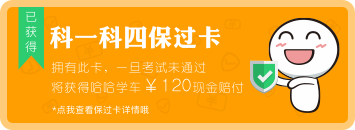
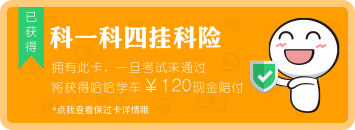
update UI

Changed region(s): [[0.4028, 0.1846, 0.6197, 0.4]]

diff --git a/hahaxueche/Utilities/HHSocialMediaShareUtility.m b/hahaxueche/Utilities/HHSocialMediaShareUtility.m
@@ -348,7 +348,7 @@ static NSString *const kSupportQQ = @"3319762526";
                         return;
                     }
                     msg = [[OSMessage alloc] init];
-                    msg.title = [NSString stringWithFormat:@"Hi, 知道你想学车, 送你200元代金券, 怕你考不过, 再送你一张保过卡. 比心❤ %@", shortURL];
+                    msg.title = [NSString stringWithFormat:@"Hi, 知道你想学车, 送你200元代金券, 怕你考不过, 再送你科一挂科险. 比心❤ %@", shortURL];
                     [OpenShare shareToWeibo:msg Success:^(OSMessage *message) {
                         if (resultCompletion) {
                             resultCompletion(YES);
@@ -418,7 +418,7 @@ static NSString *const kSupportQQ = @"3319762526";
                 } break;
                     
                 case SocialMediaMessage: {
-                    [self showSMS:[NSString stringWithFormat:@"Hi, 知道你想学车, 送你200元代金券, 怕你考不过, 再送你一张保过卡. 比心❤ %@", shortURL] attachment:nil];
+                    [self showSMS:[NSString stringWithFormat:@"Hi, 知道你想学车, 送你200元代金券, 怕你考不过, 再送你科一挂科险. 比心❤ %@", shortURL] attachment:nil];
                 }
                 default:
                     break;

diff --git a/hahaxueche/View Controllers/Others/HHSignContractViewController.m b/hahaxueche/View Controllers/Others/HHSignContractViewController.m
@@ -145,7 +145,7 @@
 
 - (void)showSharePopup {
     __weak HHSignContractViewController *weakSelf = self;
-    HHGenericOneButtonPopupView *view = [[HHGenericOneButtonPopupView alloc] initWithTitle:@"推荐好友" info:[self buildPopupInfoTextWithString:[NSString stringWithFormat:@"恭喜您！协议签署成功! 可在\"我的页面\"-\"我的协议\"里面查看. \n现在分享<学车大礼包>给好友吧, 好友报名学车立减%@元, 还有科一保过卡！",[[[HHConstantsStore sharedInstance] getCityRefereeBonus] generateMoneyString]]]];
+    HHGenericOneButtonPopupView *view = [[HHGenericOneButtonPopupView alloc] initWithTitle:@"推荐好友" info:[self buildPopupInfoTextWithString:[NSString stringWithFormat:@"恭喜您！协议签署成功! 可在\"我的页面\"-\"我的协议\"里面查看. \n现在分享<学车大礼包>给好友吧, 好友报名学车立减%@元, 还有科一挂科险！",[[[HHConstantsStore sharedInstance] getCityRefereeBonus] generateMoneyString]]]];
     [view.buttonView.okButton setTitle:@"分享得现金" forState:UIControlStateNormal];
     view.cancelBlock = ^() {
         [HHPopupUtility dismissPopup:weakSelf.popup];

diff --git a/hahaxueche/Views/Others/HHCourseInsuranceView.m b/hahaxueche/Views/Others/HHCourseInsuranceView.m
@@ -75,7 +75,7 @@
         }];
         
         NSMutableAttributedString *string = [[NSMutableAttributedString alloc] initWithString:[NSString stringWithFormat:@"%@人", [peopleCount generateLargeNumberString]] attributes:@{NSForegroundColorAttributeName:[UIColor HHOrange], NSFontAttributeName:[UIFont systemFontOfSize:13.0f]}];
-        NSMutableAttributedString *string2 = [[NSMutableAttributedString alloc] initWithString:@"已获得保过卡" attributes:@{NSForegroundColorAttributeName:[UIColor HHLightestTextGray], NSFontAttributeName:[UIFont systemFontOfSize:13.0f]}];
+        NSMutableAttributedString *string2 = [[NSMutableAttributedString alloc] initWithString:@"已获得挂科险" attributes:@{NSForegroundColorAttributeName:[UIColor HHLightestTextGray], NSFontAttributeName:[UIFont systemFontOfSize:13.0f]}];
         [string appendAttributedString:string2];
         
         self.countLabel = [[UILabel alloc] init];

diff --git a/hahaxueche/View Controllers/Others/HHTestStartViewController.m b/hahaxueche/View Controllers/Others/HHTestStartViewController.m
@@ -56,7 +56,7 @@
 
 - (void)viewDidLoad {
     [super viewDidLoad];
-    self.title = @"科一保过";
+    self.title = @"科一挂科险";
     self.view.backgroundColor = [UIColor whiteColor];
     self.navigationItem.leftBarButtonItem = [UIBarButtonItem buttonItemWithImage:[UIImage imageNamed:@"ic_arrow_back"] action:@selector(dismissVC) target:self];
     
@@ -143,8 +143,8 @@
     
     if (![[HHStudentStore sharedInstance].currentStudent isLoggedIn]) {
         cardImage = [UIImage imageNamed:@"protectioncard_noget"];
-        text = @"快去领取科一科四保过卡哟~";
-        buttonTitle = @"领取保过卡";
+        text = @"快去领取科一科四挂科险哟~";
+        buttonTitle = @"领取挂科险";
         showSlotView = NO;
         
         

diff --git a/hahaxueche/Views/My Page/HHGuardCardTableViewCell.m b/hahaxueche/Views/My Page/HHGuardCardTableViewCell.m
@@ -25,10 +25,10 @@
 }
 
 - (void)initSubviews {
-    self.titleView = [[HHMyPageItemTitleView alloc] initWithTitle:@"我的保过卡"];
+    self.titleView = [[HHMyPageItemTitleView alloc] initWithTitle:@"我的挂科险"];
     [self.contentView addSubview:self.titleView];
     
-    self.courseOneFourView = [[HHMyPageItemView alloc] initWitTitle:@"科目一四保过卡" showLine:NO];
+    self.courseOneFourView = [[HHMyPageItemView alloc] initWitTitle:@"科目一四挂科险" showLine:NO];
     if ([[HHStudentStore sharedInstance].currentStudent isPurchased]) {
         self.courseOneFourView.arrowImageView.hidden = NO;
         self.courseOneFourView.redDot.hidden = YES;

diff --git a/hahaxueche/Views/Home Page/HHHomePageItemsView.m b/hahaxueche/Views/Home Page/HHHomePageItemsView.m
@@ -35,7 +35,7 @@
                     
                     
                 case ItemTypeCourseOne: {
-                    tapView = [[HHHomePageTapView alloc] initWithImage:[UIImage imageNamed:@"ic_lessonone"] title:@"科一保过"];
+                    tapView = [[HHHomePageTapView alloc] initWithImage:[UIImage imageNamed:@"ic_lessonone"] title:@"科一挂科险"];
                     [self addSubview:tapView];
                     
                 } break;
